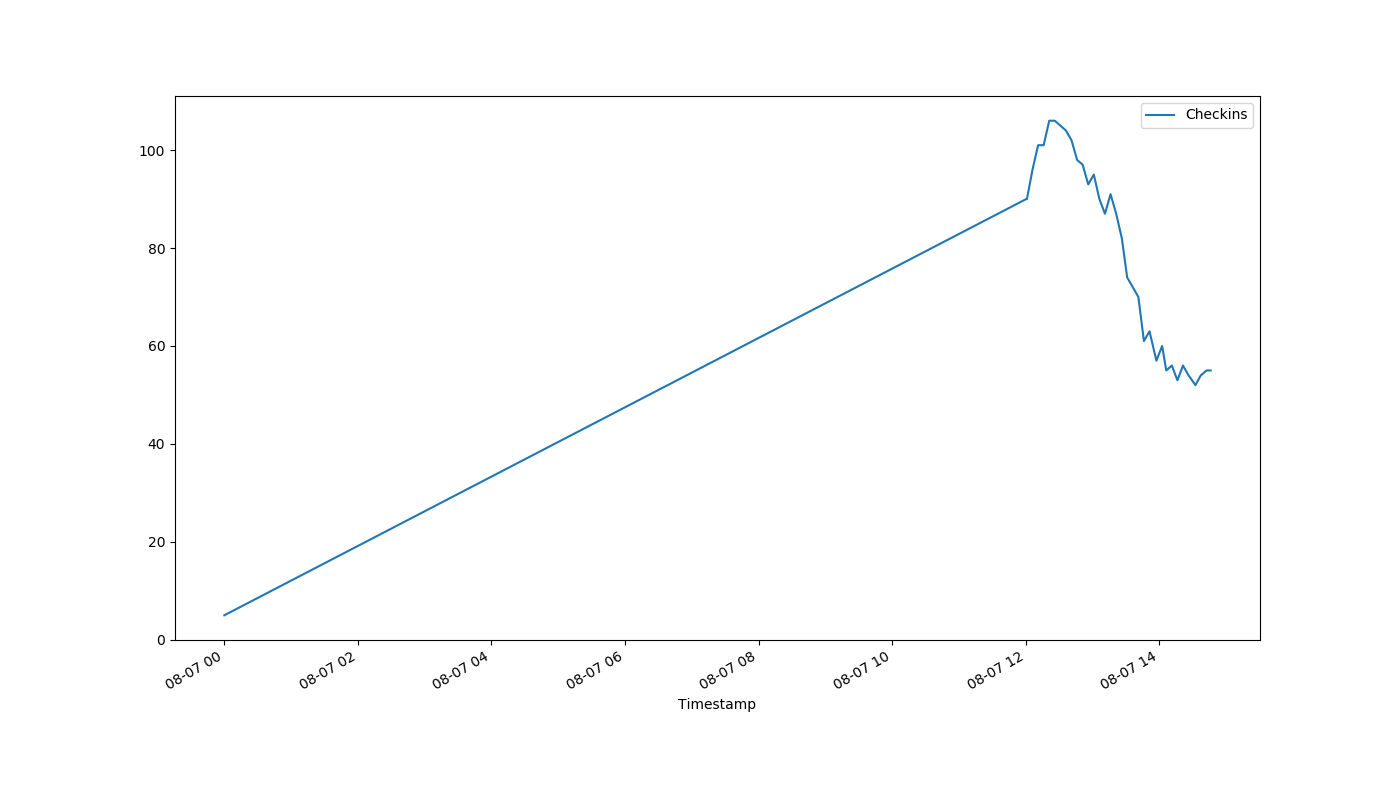
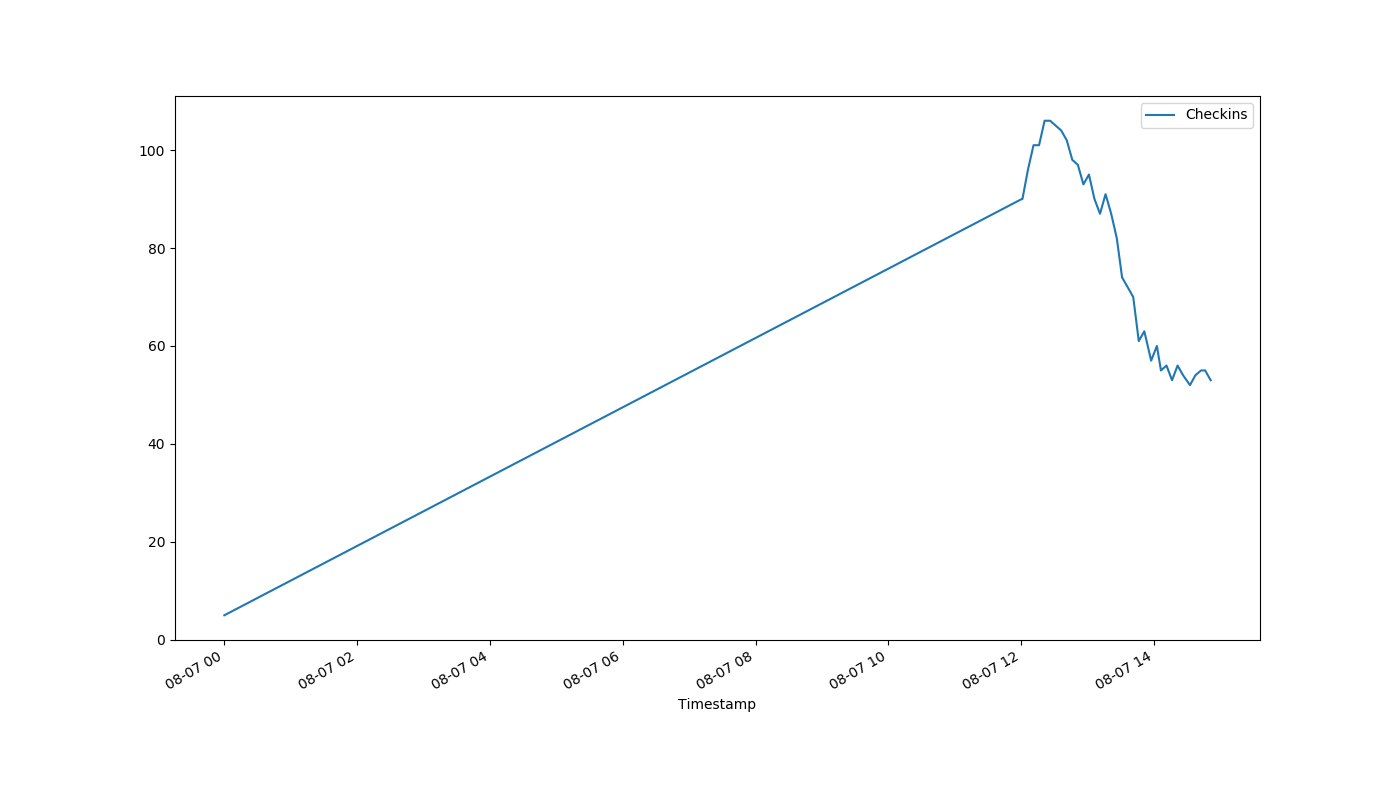
auto-Aug-07-14:51:46

diff --git a/index.html b/index.html
@@ -1,1 +1,1 @@
-<!DOCTYPE html><html><head><meta http-equiv="refresh" content="30"><link rel='stylesheet' href='holmcurrent.css'></head><body><p id='count'>55</p><div id='graph-wrap'><img id='graph' src='holmgraph-Aug-07.png'></div><p id='updated'>Last updated 14:46:16 / 14:46:01</p></body></html>
+<!DOCTYPE html><html><head><meta http-equiv="refresh" content="30"><link rel='stylesheet' href='holmcurrent.css'></head><body><p id='count'>53</p><div id='graph-wrap'><img id='graph' src='holmgraph-Aug-07.png'></div><p id='updated'>Last updated 14:51:16 / 14:51:02</p></body></html>
